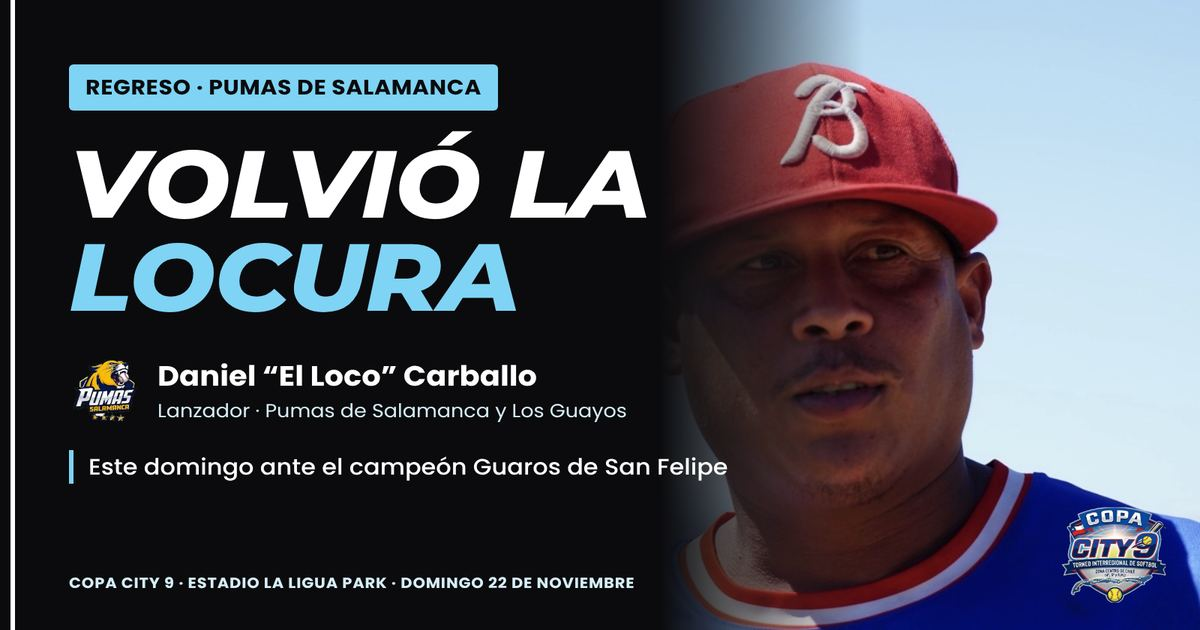
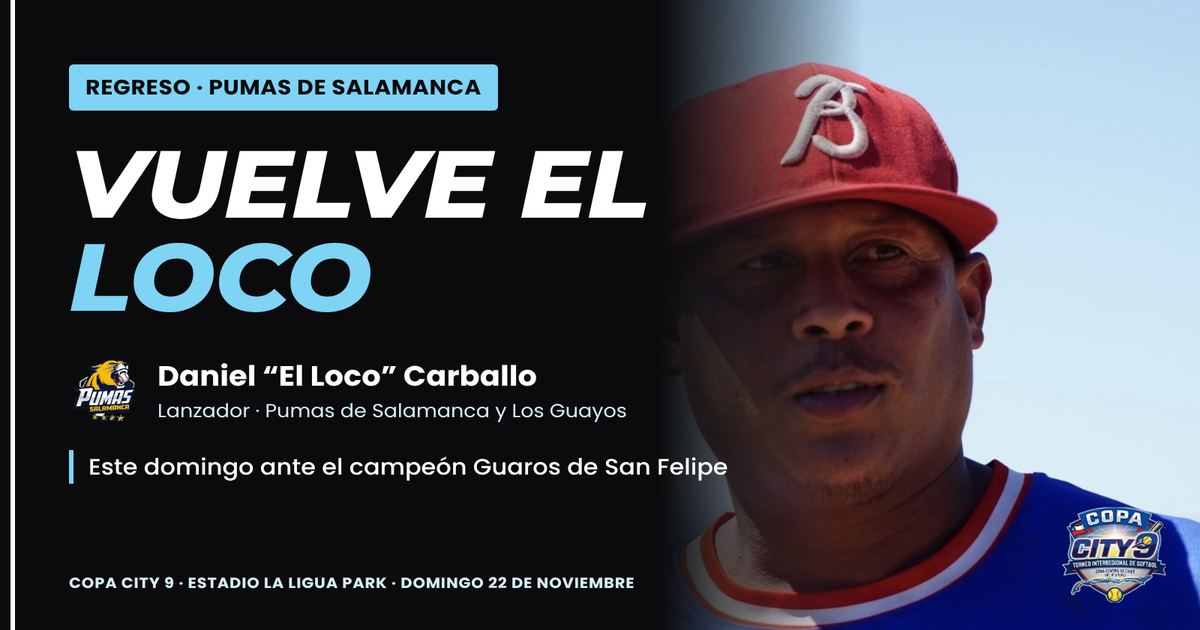
Noticia de Daniel Carballo: «Vuelve el loco» y fecha domingo 22
Claude-Session: https://claude.ai/code/session_01WTLfWYVw9bNNsrYx9NT6bg

Changed region(s): [[0.1233, 0.2111, 0.555, 0.5127]]

diff --git a/datos/sitio.js b/datos/sitio.js
@@ -381,7 +381,7 @@ window.SITIO = {
     jornada: "Jornada 11",
     fecha: "2026-11-15",
     slides: [
-      {"tag": "Regreso · Pumas de Salamanca", "img": "assets/noticias/daniel-carballo-portada.jpg", "pos": "center 30%", "alt": "Daniel “El Loco” Carballo, lanzador de Pumas de Salamanca", "titulo": "Volvió la locura", "bajada": "Daniel “El Loco” Carballo regresa a La Ligua Park este domingo 22 de noviembre para enfrentar al campeón Guaros de San Felipe.", "corto": "Volvió “El Loco” Carballo", "link": "#articulo-volvio-la-locura-daniel-carballo"},
+      {"tag": "Regreso · Pumas de Salamanca", "img": "assets/noticias/daniel-carballo-portada.jpg", "pos": "center 30%", "alt": "Daniel “El Loco” Carballo, lanzador de Pumas de Salamanca", "titulo": "Vuelve el loco", "bajada": "Daniel “El Loco” Carballo regresa a La Ligua Park este domingo 22 de noviembre para enfrentar al campeón Guaros de San Felipe.", "corto": "Vuelve “El Loco” Carballo", "link": "#articulo-volvio-la-locura-daniel-carballo"},
       {"tag": "Opinión · Editorial del presidente", "img": "assets/noticias/editorial-tres-meses-portada.jpg", "pos": "center 30%", "alt": "Jugadores de Pumas de Salamanca y Blessed Barber's abrazados en el Estadio La Ligua Park", "titulo": "Tres meses sumando voluntades", "bajada": "De cinco a diez equipos en tres meses. Migner Acosta Yánez hace un balance del trabajo compartido de la directiva de la Copa City 9.", "corto": "Editorial: tres meses sumando voluntades", "link": "#articulo-editorial-tres-meses-sumando-voluntades"},
       {"tag": "Segunda edición · Bienvenidos", "img": "assets/noticias/piratas-v-region-portada.jpg", "pos": "75% 45%", "alt": "Bandera de Los Piratas de la V Región, nuevo equipo de la Copa City 9", "titulo": "¡Al abordaje! Llegan los Piratas", "bajada": "Los Piratas de la V Región se suman oficialmente a la segunda edición de la Copa City 9. Los cupos se están llenando.", "corto": "Llegan los Piratas de la V Región", "link": "#articulo-piratas-v-region-segunda-edicion"},
       {"tag": "Copa City 9 · Segunda edición", "img": "assets/noticias/segunda-edicion-portada.jpg", "pos": "78% 50%", "alt": "Hit de La Calera, Vikingos, Marabinos y Caribe Power, candidatos a la segunda edición de la Copa City 9", "titulo": "Nuevos equipos tocan la puerta", "bajada": "Hit de La Calera ya confirmó para la segunda edición. Vikingos, Marabinos y Caribe Power también quieren estar en la Copa de las 9 ciudades.", "corto": "Segunda edición: nuevos equipos", "link": "#articulo-segunda-edicion-nuevos-equipos"},
@@ -565,16 +565,16 @@ window.SITIO = {
     {
       "id": "volvio-la-locura-daniel-carballo",
       "tipo": "noticia",
-      "titulo": "Volvió la locura a La Ligua Park: regresa Daniel “El Loco” Carballo",
+      "titulo": "Vuelve el loco a La Ligua Park: Daniel Carballo regresa este domingo",
       "bajada": "El excéntrico lanzador de Pumas de Salamanca, figura de Los Guayos en Santiago, vuelve este domingo 22 de noviembre con su alegría, su carisma y su chispa para medirse a Guaros de San Felipe, el actual campeón de la liga.",
       "autor": "Migner Acosta",
-      "fecha": "2026-11-21",
+      "fecha": "2026-11-22",
       "equipo": "pumas",
       "portada": "assets/noticias/daniel-carballo-portada.jpg",
       "bloques": [
         {
           "t": "p",
-          "x": "Este domingo 22 de noviembre vuelve la locura a La Ligua Park. Daniel “El Loco” Carballo, el pelotero más excéntrico de los Pumas de Salamanca, regresa al diamante con la alegría y las peculiaridades que lo caracterizan, esas que lo han convertido en un jugador apreciado, querido y ovacionado por todos los que lo han visto lanzar en la Copa City 9."
+          "x": "Este domingo 22 de noviembre vuelve el loco a La Ligua Park. Daniel “El Loco” Carballo, el pelotero más excéntrico de los Pumas de Salamanca, regresa al diamante con la alegría y las peculiaridades que lo caracterizan, esas que lo han convertido en un jugador apreciado, querido y ovacionado por todos los que lo han visto lanzar en la Copa City 9."
         },
         {
           "t": "img",
@@ -621,7 +621,7 @@ window.SITIO = {
         },
         {
           "t": "p",
-          "x": "La invitación está hecha. Este domingo, en La Ligua Park, vuelve la locura, y la fanaticada tiene un motivo más para llegar temprano al estadio."
+          "x": "La invitación está hecha. Este domingo, en La Ligua Park, vuelve el loco, y la fanaticada tiene un motivo más para llegar temprano al estadio."
         }
       ]
     },
